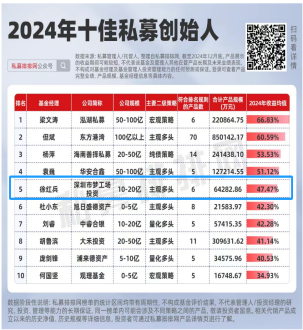
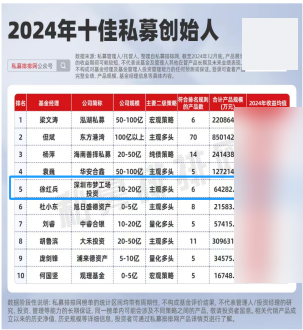
合规整改: 业绩表述改为合格投资者定向提供, 金字塔16年30倍改卓越回报, 榜单图收益率与二维码脱敏

Changed region(s): [[0.7723, 0.303, 1.0, 0.8788], [0.7723, 0.0303, 1.0, 0.2121]]

diff --git a/index.html b/index.html
@@ -196,7 +196,7 @@
 <p class="roadshow-curated-module-index">第二模块</p>
 <p class="roadshow-curated-kicker">股权投资 · 发现价值</p>
 <h2>2005年开始，以企业家思维为投资者投资优质上市企业股权，开创独特的投资模式。</h2>
-<p class="roadshow-curated-module-summary">在证券市场以“不买会涨、只买狠值”的企业家思维，成就了有审计的17年近40倍回报。如果统计20年完整周期、多方可验证的真实收益，我们综合回报超过120倍。</p>
+<p class="roadshow-curated-module-summary">在证券市场以企业家思维践行价值投资，坚持基本面研究，不赌涨跌、只买狠值。历史投资业绩仅面向符合规定的合格投资者，在完成合格投资者确认与风险揭示后提供，本页面不作公开展示。</p>
 </div>
 <div aria-label="投资相关原始资料" class="roadshow-curated-gallery home-gallery-2005"><figure class="roadshow-curated-evidence"><img alt="投资成绩原始资料一" decoding="async" loading="lazy" src="assets/home/roadshow-original/original-07.png"/></figure><figure class="roadshow-curated-evidence"><img alt="投资成绩原始资料二" decoding="async" loading="lazy" src="assets/home/roadshow-original/original-08.png"/></figure><figure class="roadshow-curated-evidence"><img alt="投资奖项原始资料一" decoding="async" loading="lazy" src="assets/home/roadshow-original/original-09.png"/></figure><figure class="roadshow-curated-evidence"><img alt="投资奖项原始资料二" decoding="async" loading="lazy" src="assets/home/roadshow-original/original-10.png"/></figure><figure class="roadshow-curated-evidence"><img alt="投资奖项原始资料三" decoding="async" loading="lazy" src="assets/home/roadshow-original/original-11.png"/></figure></div>
 </div>

diff --git a/js/home-interactive-pyramid.js b/js/home-interactive-pyramid.js
@@ -23,7 +23,7 @@
       year: '2005',
       title: '股权投资模式',
       value: '发现价值',
-      description: '为资本家与投资者基于企业股权价值，开创独特的投资模式。以“涨跌都赚钱，下跌赚更多”的独特模式，成就16年30倍回报。'
+      description: '为资本家与投资者基于企业股权价值，开创独特的投资模式。以“涨跌都赚钱，下跌赚更多”的独特模式，成就卓越回报。'
     },
     business: {
       year: '1998',
